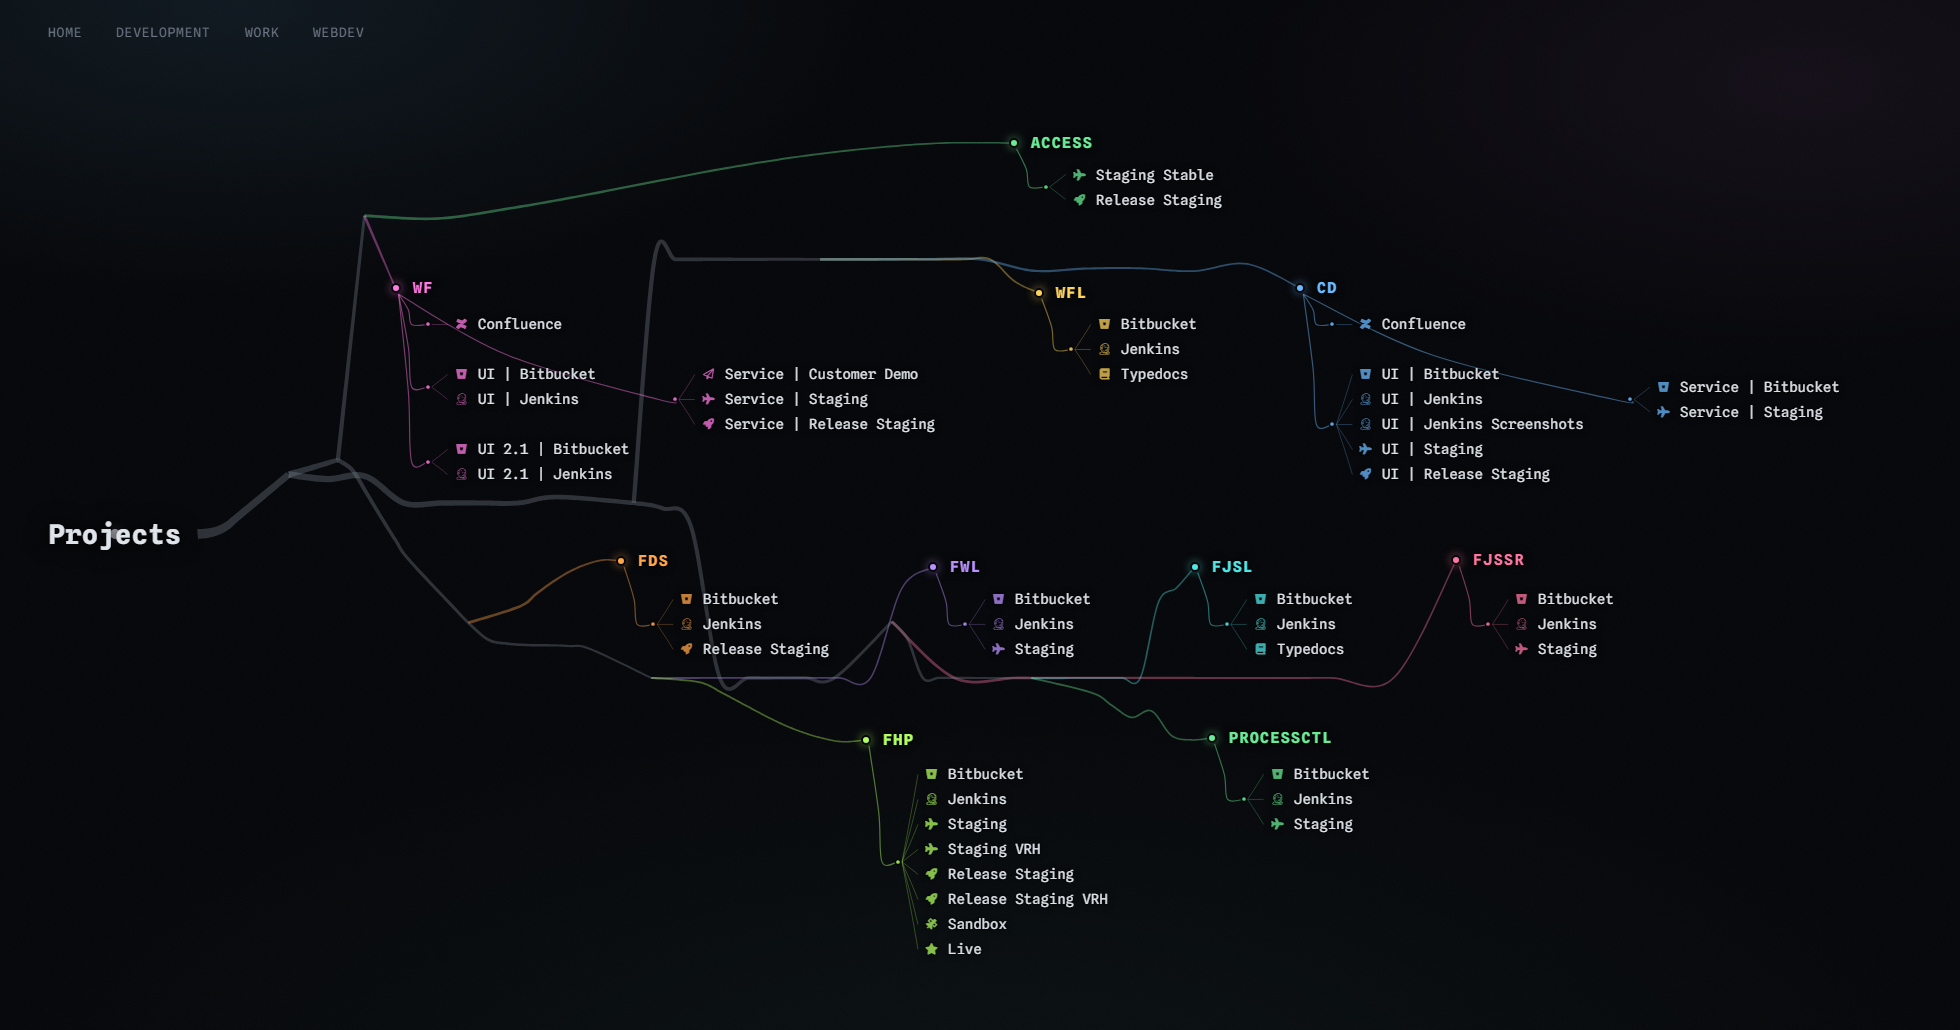
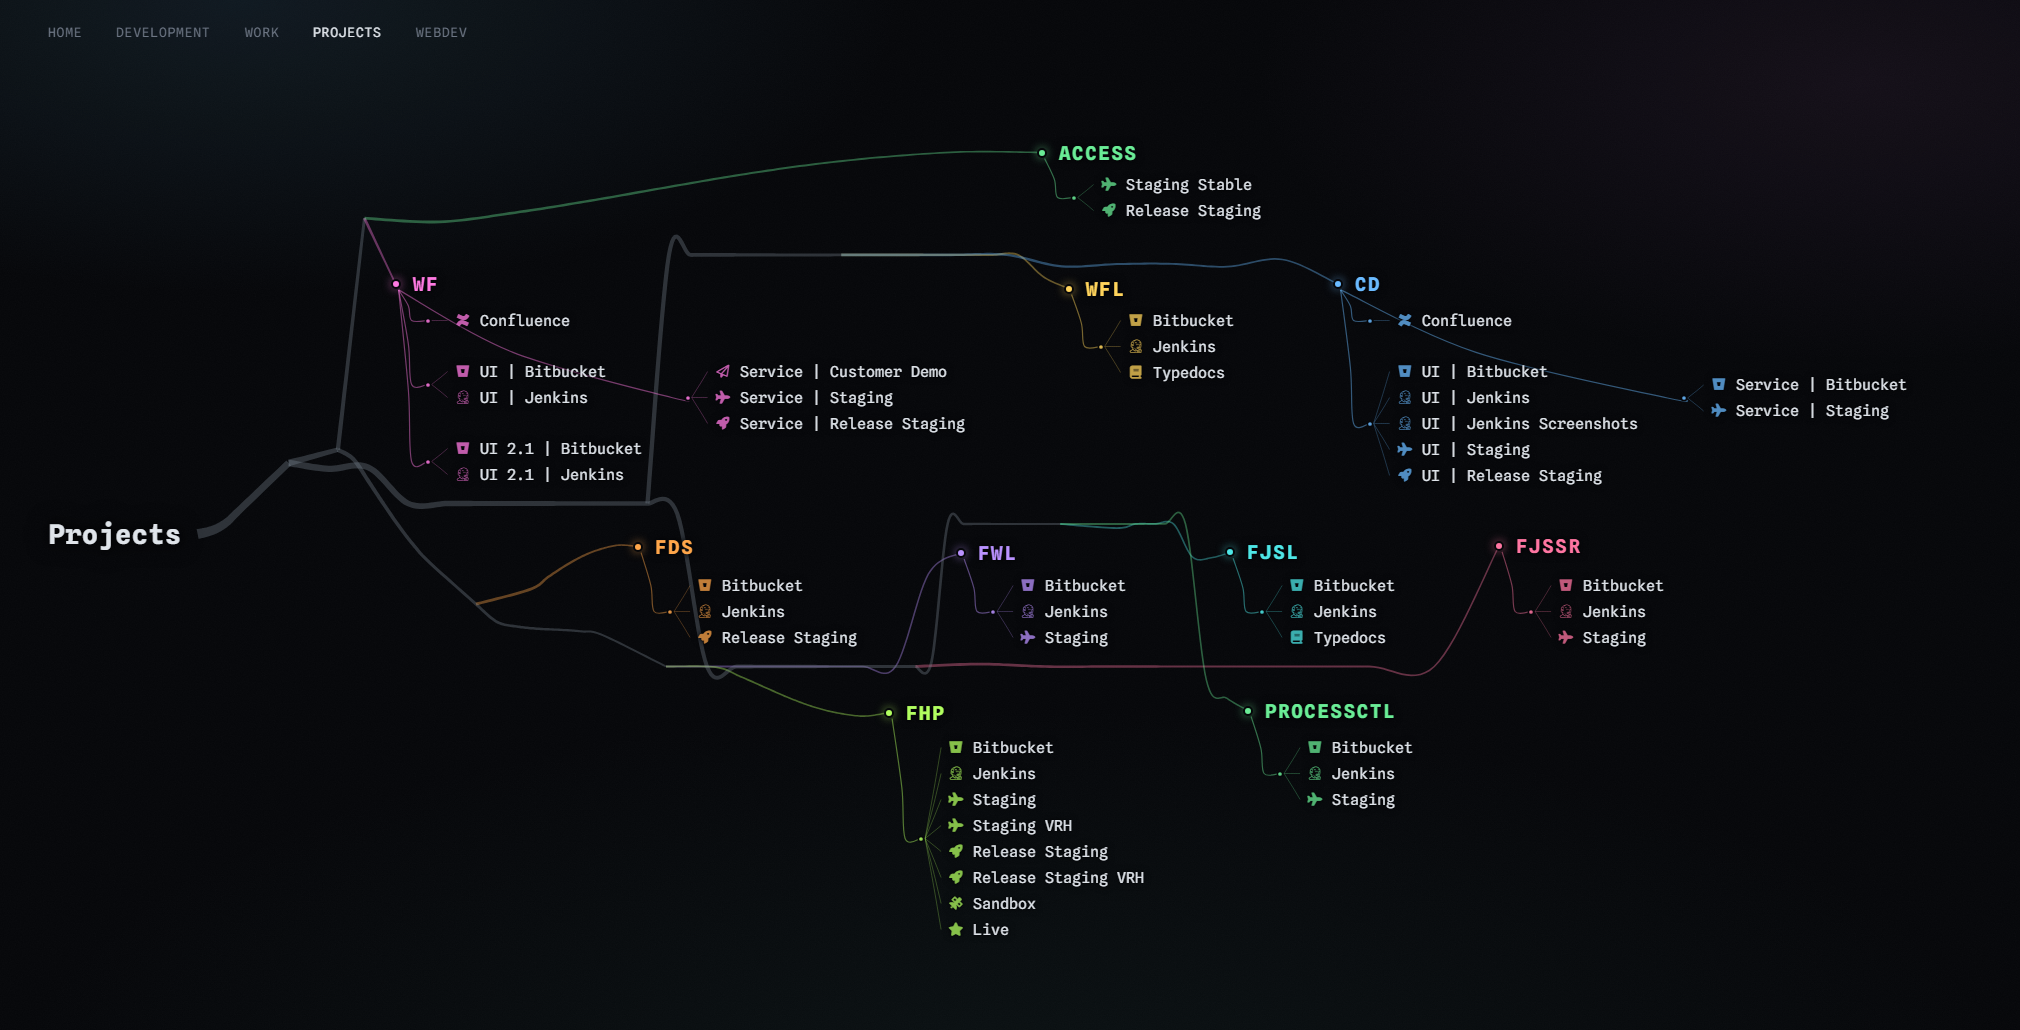
mindmap tree fixes

diff --git a/sass/styles.scss b/sass/styles.scss
@@ -13,8 +13,8 @@
 
 $mono: "Spline Sans Mono", ui-monospace, "SFMono-Regular", Menlo, monospace;
 
-$leaf-size: 14px; // CH     = 8.4  (0.6em advance)
-$name-size: 15px; // NAME_CH = 10.4 (0.6em + 0.09em tracking)
+$leaf-size: 15px; // CH     = 9.0  (0.6em advance)
+$name-size: 19px; // NAME_CH = 13.2 (0.6em + 0.09em tracking)
 $root-size: 27px; // ROOT_CH = 17.6
 $other-size: 13px; // OTHER_CH = 8.6
 
@@ -172,11 +172,6 @@ a {
   stroke-width: 1.5;
 }
 
-.core {
-  fill: var(--ink);
-  filter: drop-shadow(0 0 8px rgba(223, 228, 234, 0.45));
-}
-
 // --- Nodes ----------------------------------------------------------------
 // Everything below is positioned from the computed layout; `top` is a centre
 // line, hence the translate.
@@ -205,6 +200,12 @@ a {
   letter-spacing: 0.06em;
   text-transform: uppercase;
   color: var(--ink-dim);
+
+  // The map you are already on. Marked rather than removed, so the strip is
+  // identical on every page.
+  &.is-here {
+    color: var(--ink);
+  }
 
   &:hover {
     color: var(--ink);
@@ -247,9 +248,9 @@ a {
 
   .ico {
     flex: none;
-    width: 15px;
+    width: 17px;
     text-align: center;
-    font-size: 11px;
+    font-size: 12.5px;
     color: #{"rgb(var(--tone) / 0.75)"};
   }
 

diff --git a/templates/startpage.html b/templates/startpage.html
@@ -79,7 +79,6 @@
             <circle class="node" cx="{{ branch.node_x }}" cy="{{ branch.node_y }}" r="4" />
           </g>
           {%- endfor %}
-          <circle class="core" cx="{{ map.core_x }}" cy="{{ map.core_y }}" r="5" />
         </svg>
 
         <h1 class="root" style="left: {{ map.core_x }}px; top: {{ map.core_y }}px">
@@ -87,7 +86,7 @@
         </h1>
 
         {%- for other in map.others %}
-        <a class="other" style="left: {{ other.x }}px; top: {{ other.y }}px" href="{{ other.path | safe }}">{{ other.name }}</a>
+        <a class="other{% if other.here %} is-here{% endif %}" style="left: {{ other.x }}px; top: {{ other.y }}px" href="{{ other.path | safe }}"{% if other.here %} aria-current="page"{% endif %}>{{ other.name }}</a>
         {%- endfor %}
 
         {%- for branch in map.branches %}

diff --git a/src/main.rs b/src/main.rs
@@ -67,20 +67,20 @@ static CONFIGURATION: &str = "content/startpages.yaml";
 // ---------------------------------------------------------------------------
 
 /// Advance width of one character at the leaf font size.
-const CH: f32 = 8.4;
+const CH: f32 = 9.0;
 /// Advance width of one character in a category name, tracking included.
-const NAME_CH: f32 = 10.4;
+const NAME_CH: f32 = 13.2;
 /// Advance width of one character in the title.
 const ROOT_CH: f32 = 16.7;
 /// Advance width of one character in a link to another map.
 const OTHER_CH: f32 = 8.6;
 
 /// Vertical pitch between leaves.
-const ROW: f32 = 25.0;
+const ROW: f32 = 26.0;
 /// Space between one bud's leaves and the next bud's.
 const GROUP_GAP: f32 = 25.0;
 /// Room the icon and its gap occupy beside a label.
-const ICON: f32 = 24.0;
+const ICON: f32 = 26.0;
 /// Bud to the leaves hanging off it.
 const BUD_DX: f32 = 26.0;
 /// Trailing space after a fan, before the next fan starts.
@@ -283,6 +283,9 @@ struct Other {
     path: String,
     x: f32,
     y: f32,
+    /// Whether this is the map being looked at. Marked, but never left out -
+    /// dropping it would shift every other name along.
+    here: bool,
 }
 
 #[derive(Debug, Serialize)]
@@ -847,21 +850,19 @@ fn plot(startpage: &Startpage, navigation: &Navigation) -> Map {
         &mut boughs,
     );
 
-    // The other maps are navigation, not part of this tree, so they sit in a
-    // strip above it rather than hanging off the title.
-    let elsewhere: Vec<&NavItem> = navigation
-        .iter()
-        .filter(|nav| nav.name != startpage.name)
-        .collect();
-
+    // The maps are navigation, not part of this tree, so they sit in a strip
+    // above it rather than hanging off the title. Every map is listed on every
+    // page, in the same order: leaving the current one out would shift all the
+    // others along, so the strip would move as you moved between maps.
     let mut others = Vec::new();
     let mut at = MARGIN;
-    for nav in elsewhere {
+    for nav in navigation {
         others.push(Other {
             name: nav.name.to_owned(),
             path: nav.path.to_owned(),
             x: px(at),
             y: 32.0,
+            here: nav.name == startpage.name,
         });
         at += nav.name.chars().count() as f32 * OTHER_CH + 34.0;
     }

diff --git a/README.md b/README.md
@@ -107,8 +107,12 @@ the next; committing to the direction it was already travelling turns the same
 dodge into a single arc over or under.
 
 The map is anchored top-left and never centred, and the field is a fixed height
-whatever a particular map needs, so the strip of other maps and the title land
-on the same pixel on every page - `48,24` and `48,534`.
+whatever a particular map needs, so the strip of maps and the title land on the
+same pixel on every page - `48,24` and `48,534`.
+
+Every map is listed in that strip on every page, including the one you are
+looking at, which is marked rather than left out. Omitting it would shift all
+the names after it along, so the strip would move as you moved between maps.
 
 ### How much is computed
 
